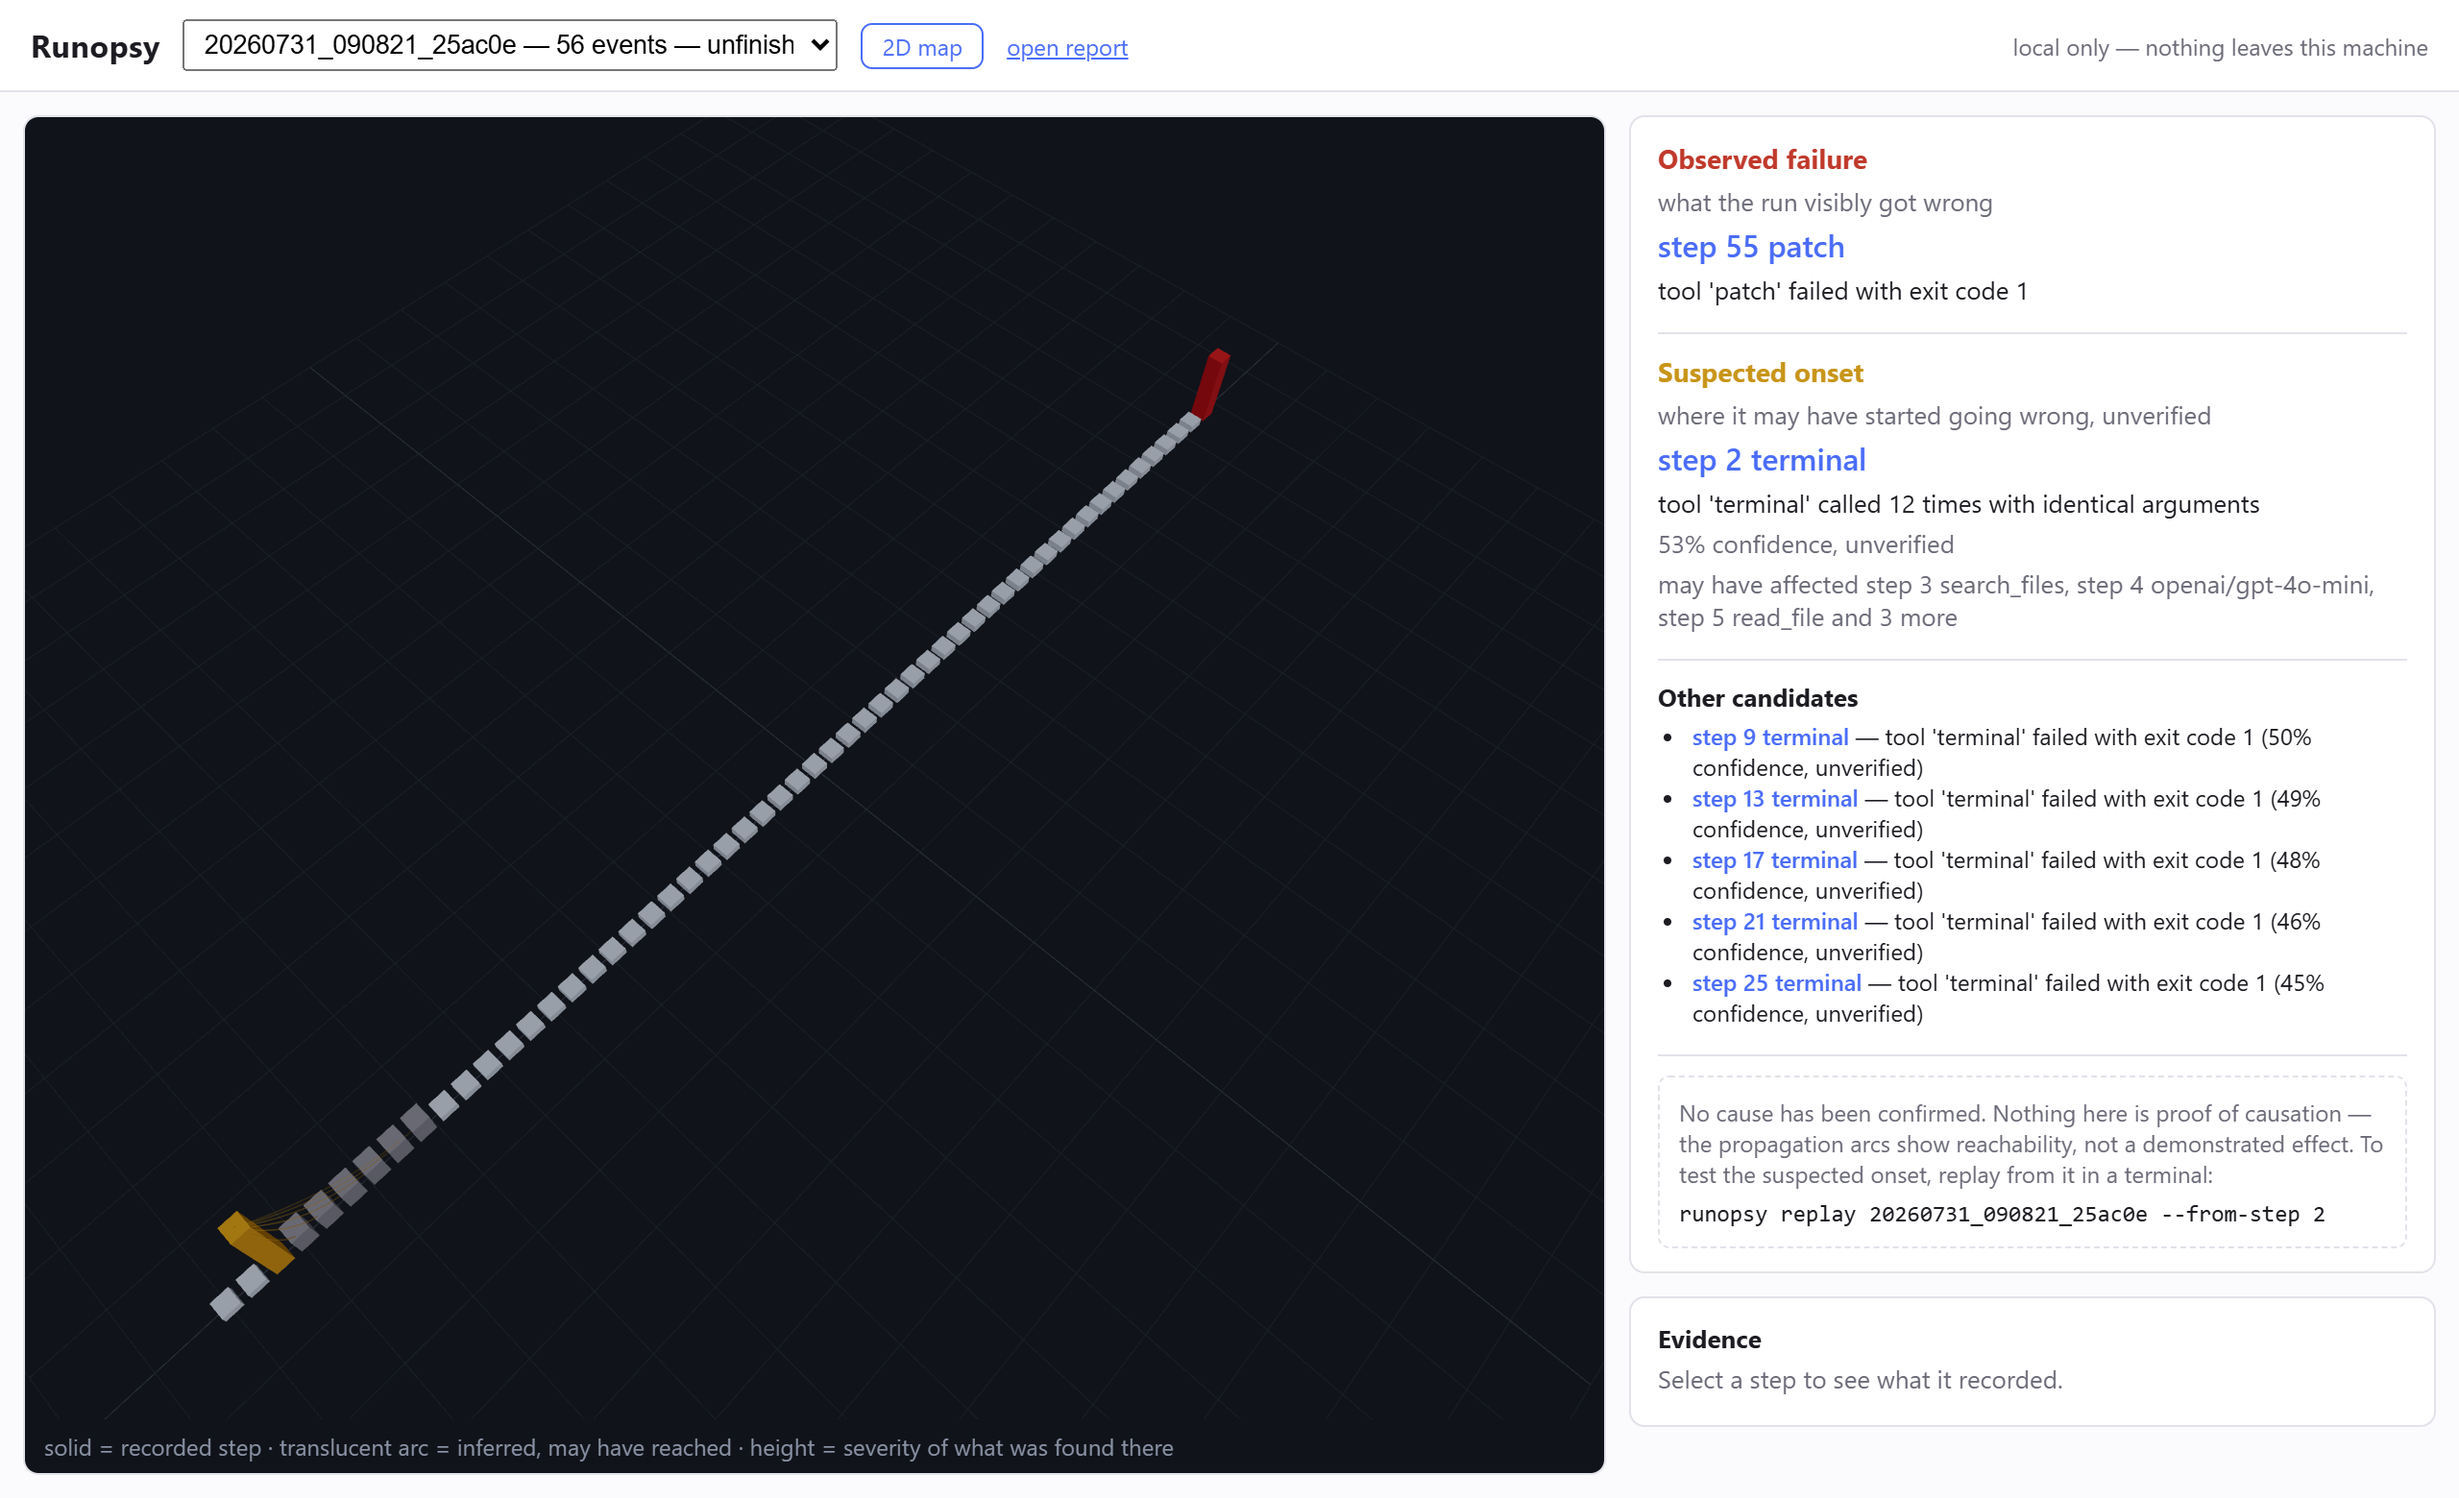
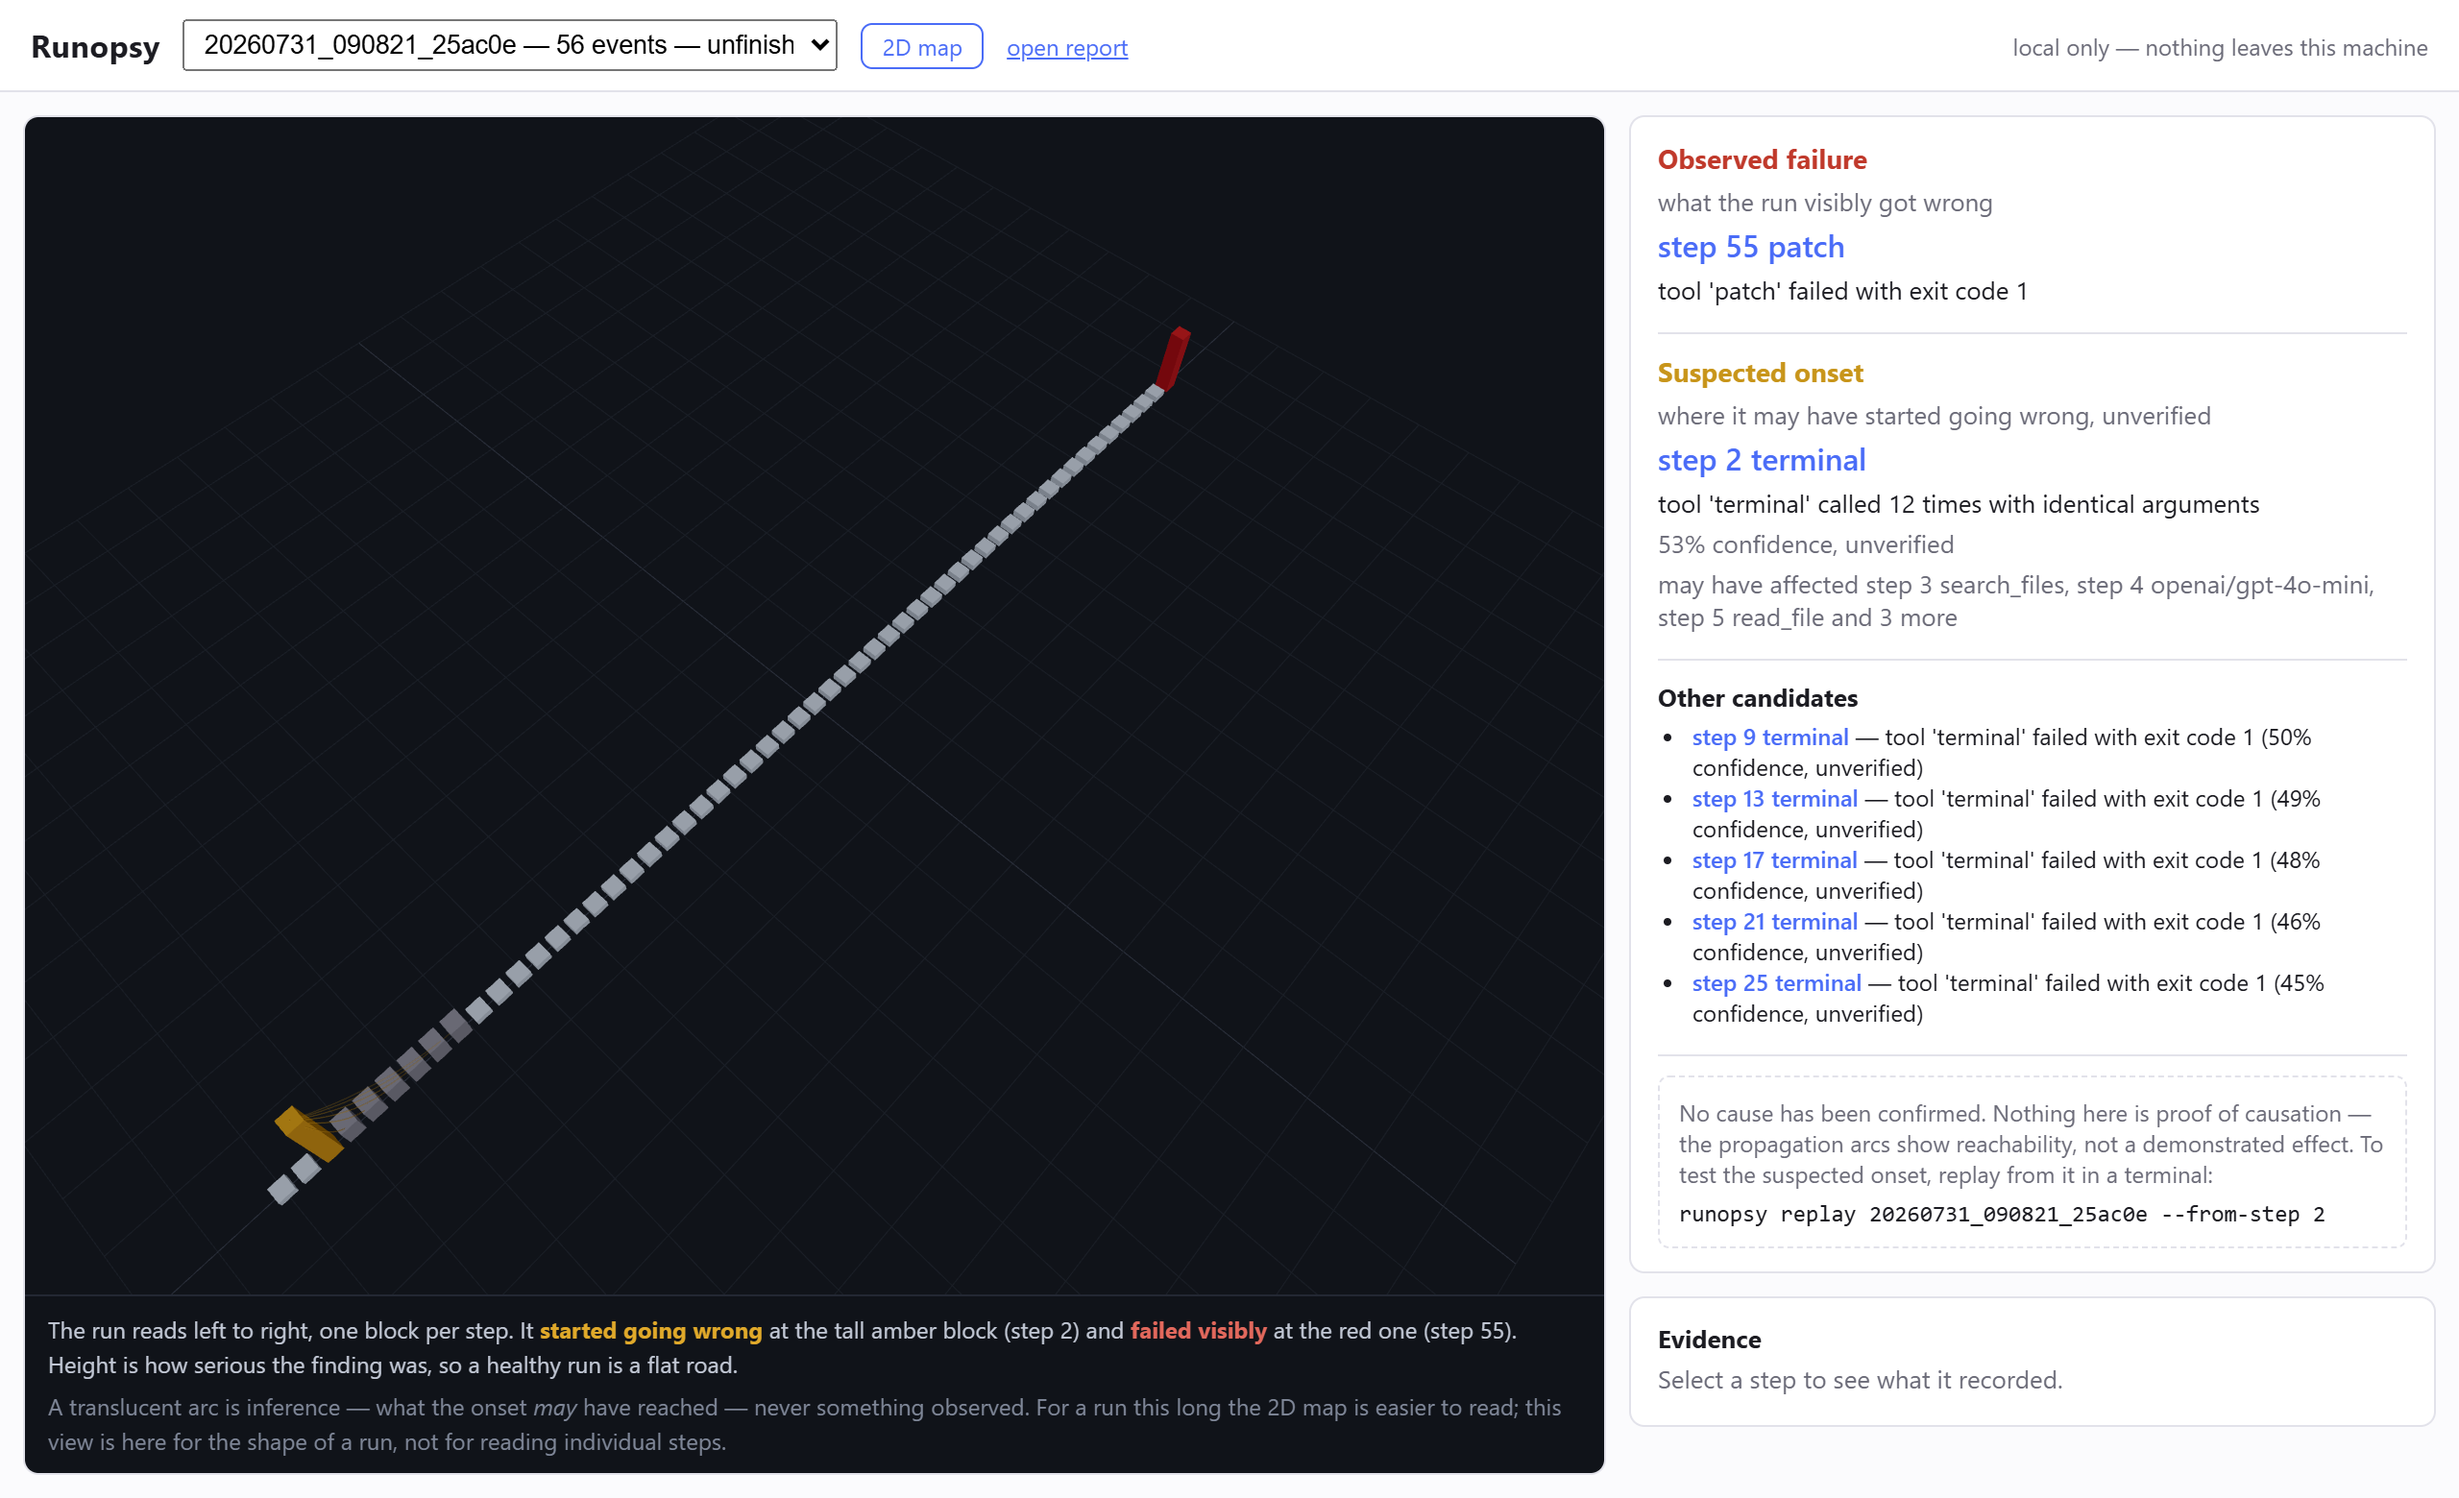
Make the maps readable by someone who has not read the code
A user looked at the 2D map of a fifty-six step run and said it told them nothing.
They were right. Every box carried the same visual weight, so the two steps that
matter were lost among the forty-eight that do not, and nothing on screen said
what any colour meant.

The map now leads with a sentence of plain English, the two important steps say
what they are in words — STARTED HERE, FAILED HERE — rather than relying on a
colour the reader has no key for, and the ordinary steps are deliberately faint. A
step nobody needs to read should not compete with the one they do. A legend sits
under the canvas, because a colour key nobody was given is a colour key nobody can
read.

The same reader said the 3D view looked like a flat line and they did not
understand it, and that criticism lands too. It had no labels at all: a row of
coloured blocks with no way to tell which was which. It now carries a caption
naming the amber and red blocks by step number, and says outright that for a run
this long the 2D map is easier to read and this view is for the shape of a run
rather than for reading individual steps. That is what the design document has
always said about 3D, and the honest thing is to say it where somebody is looking
at the view rather than only in a document.

A picture that needs a person standing beside it to explain what it shows is not
finished, however correct the rendering is.

Changed region(s): [[0.0312, 0.2154, 0.625, 0.9846]]

diff --git a/packages/runopsy-ui/src/FailureMap.tsx b/packages/runopsy-ui/src/FailureMap.tsx
@@ -16,9 +16,9 @@ import { useSelection } from "./store";
 
 // Nodes are 210 wide; the gap between columns has to hold a "may reach 42%" label
 // without it colliding with the box beside it.
-const COLUMN = 300;
+const COLUMN = 330;
 const ROW = 82;
-const MAX_LABEL = 30;
+const MAX_LABEL = 26;
 
 /** One line that fits the box.
  *
@@ -53,11 +53,31 @@ function roleOf(
   return "plain";
 }
 
+/** Styling carries the reading order, because fifty near-identical boxes do not.
+ *
+ * A user looking at a fifty-step run said the map told them nothing, and they were
+ * right: every step had the same weight, so the two that matter were lost among the
+ * forty-eight that do not. The marked steps are now larger, bolder and darker, and the
+ * ordinary ones are deliberately faint — a step nobody needs to read should not compete
+ * with the one they do.
+ */
 const STYLES: Record<string, React.CSSProperties> = {
-  onset: { background: "#fff6d8", border: "2px solid #c8951a", fontWeight: 600 },
-  failure: { background: "#ffe1e1", border: "2px solid #c0392b", fontWeight: 600 },
-  affected: { background: "#f4f4f6", border: "1px solid #b9b9c4" },
-  plain: { background: "#ffffff", border: "1px solid #d8d8e0" },
+  onset: {
+    background: "#ffe9a8",
+    border: "3px solid #b8860b",
+    fontWeight: 700,
+    color: "#4a3600",
+    fontSize: 13,
+  },
+  failure: {
+    background: "#ffd0d0",
+    border: "3px solid #b0281a",
+    fontWeight: 700,
+    color: "#5c1410",
+    fontSize: 13,
+  },
+  affected: { background: "#fdf6e6", border: "1px solid #d8b878", color: "#6b5a30" },
+  plain: { background: "#fbfbfd", border: "1px solid #e6e6ee", color: "#9a9aa8" },
 };
 
 export function FailureMap({ graph, onset, observedFailureNodeId }: Props) {
@@ -78,7 +98,16 @@ export function FailureMap({ graph, onset, observedFailureNodeId }: Props) {
               x: (index % 4) * COLUMN,
               y: Math.floor(index / 4) * ROW,
             },
-            data: { label: `${node.sequence}  ${fitLabel(node.label || node.kind)}` },
+            // The two steps that matter say what they are, in words. A colour is only
+            // legible to someone who has already read the legend; a label is not.
+            data: {
+              label:
+                role === "onset"
+                  ? `STARTED HERE - step ${node.sequence} ${fitLabel(node.label || node.kind)}`
+                  : role === "failure"
+                    ? `FAILED HERE - step ${node.sequence} ${fitLabel(node.label || node.kind)}`
+                    : `${node.sequence}  ${fitLabel(node.label || node.kind)}`,
+            },
             title: node.label || node.kind,
             style: {
               ...STYLES[role],
@@ -90,7 +119,7 @@ export function FailureMap({ graph, onset, observedFailureNodeId }: Props) {
               overflow: "hidden",
               textOverflow: "ellipsis",
               fontSize: 12,
-              width: 210,
+              width: role === "onset" || role === "failure" ? 268 : 214,
               outline: node.node_id === focused ? "3px solid #4a6cf7" : undefined,
             },
           };
@@ -120,17 +149,39 @@ export function FailureMap({ graph, onset, observedFailureNodeId }: Props) {
   }, [graph.edges, graph.inferred_edges]);
 
   return (
-    <div style={{ height: "100%", border: "1px solid #e2e2ea", borderRadius: 8 }}>
-      <ReactFlow
-        nodes={nodes}
-        edges={edges}
-        onNodeClick={(_, node) => focusNode(node.id)}
-        fitView
-        proOptions={{ hideAttribution: false }}
-      >
-        <Background />
-        <Controls />
-      </ReactFlow>
+    <div className="mapframe">
+      <div className="maphint">
+        Each box is one step, in order. The run <b>failed</b> at the red box — it{" "}
+        <b>started going wrong</b> at the amber one. Dashed amber lines are what that
+        step <i>may</i> have reached: inference, not something observed. Click any step
+        to see what it recorded.
+      </div>
+      <div className="mapcanvas">
+        <ReactFlow
+          nodes={nodes}
+          edges={edges}
+          onNodeClick={(_, node) => focusNode(node.id)}
+          fitView
+          proOptions={{ hideAttribution: false }}
+        >
+          <Background />
+          <Controls />
+        </ReactFlow>
+      </div>
+      <div className="maplegend">
+        <span>
+          <i className="swatch onset" /> started going wrong
+        </span>
+        <span>
+          <i className="swatch failure" /> visible failure
+        </span>
+        <span>
+          <i className="swatch affected" /> may have been affected
+        </span>
+        <span>
+          <i className="swatch plain" /> nothing found here
+        </span>
+      </div>
     </div>
   );
 }

diff --git a/packages/runopsy-ui/src/styles.css b/packages/runopsy-ui/src/styles.css
@@ -68,3 +68,35 @@ ul { margin: 4px 0; padding-left: 18px; font-size: 12px; }
 .map3d { height: 100%; display: flex; flex-direction: column; border: 1px solid var(--line); border-radius: 8px; overflow: hidden; }
 .map3d canvas { flex: 1; }
 .dim3d { margin: 0; padding: 6px 10px; background: #101319; color: #8a93a6; }
+
+/* The map, with the words a first-time reader needs around it. A colour key nobody
+   was given is a colour key nobody can read. */
+.mapframe {
+  height: 100%; display: flex; flex-direction: column;
+  border: 1px solid var(--line); border-radius: 8px; overflow: hidden; background: #fff;
+}
+.maphint {
+  padding: 8px 12px; font-size: 12px; line-height: 1.5; color: #45454f;
+  background: #f7f8fb; border-bottom: 1px solid var(--line);
+}
+.maphint b { color: #1c1c22; }
+.mapcanvas { flex: 1; min-height: 0; }
+.maplegend {
+  display: flex; flex-wrap: wrap; gap: 16px;
+  padding: 7px 12px; font-size: 12px; color: var(--dim);
+  border-top: 1px solid var(--line); background: #fbfbfd;
+}
+.maplegend span { display: inline-flex; align-items: center; gap: 6px; }
+.swatch { width: 14px; height: 14px; border-radius: 3px; display: inline-block; }
+.swatch.onset { background: #ffe9a8; border: 2px solid #b8860b; }
+.swatch.failure { background: #ffd0d0; border: 2px solid #b0281a; }
+.swatch.affected { background: #fdf6e6; border: 1px solid #d8b878; }
+.swatch.plain { background: #fbfbfd; border: 1px solid #e6e6ee; }
+
+/* The 3D caption. Without it the view is a row of coloured blocks and no way to know
+   which is which — a picture that needs a person beside it to explain is not finished. */
+.caption3d { padding: 8px 12px; background: #101319; border-top: 1px solid #232833; }
+.caption3d p { margin: 0 0 4px; font-size: 12px; line-height: 1.5; color: #c3c9d6; }
+.caption3d p.gloss { color: #7f8798; margin-bottom: 0; }
+.caption3d .amber { color: #e0a92a; }
+.caption3d .red { color: #e2685c; }

diff --git a/packages/runopsy-ui/src/FailureMap3D.tsx b/packages/runopsy-ui/src/FailureMap3D.tsx
@@ -179,6 +179,11 @@ export default function FailureMap3D({
     [onset],
   );
 
+  const stepOf = (id: string | null | undefined): number | null =>
+    ordered.find((node) => node.node_id === id)?.sequence ?? null;
+  const onsetStep = stepOf(onset?.onset_node_id);
+  const failureStep = stepOf(observedFailureNodeId);
+
   const arcs = useMemo(() => {
     if (!onset) return [];
     const from = indexById.get(onset.onset_node_id);
@@ -216,10 +221,21 @@ export default function FailureMap3D({
           position={[0, 0, (-ordered.length * STEP_SPACING) / 2]}
         />
       </Canvas>
-      <p className="gloss dim3d">
-        solid&nbsp;=&nbsp;recorded step · translucent arc&nbsp;=&nbsp;inferred, may have
-        reached · height&nbsp;=&nbsp;severity of what was found there
-      </p>
+      <div className="caption3d">
+        <p>
+          The run reads left to right, one block per step. It{" "}
+          <b className="amber">started going wrong</b> at the tall amber block
+          {onsetStep !== null ? ` (step ${onsetStep})` : ""} and{" "}
+          <b className="red">failed visibly</b> at the red one
+          {failureStep !== null ? ` (step ${failureStep})` : ""}. Height is how serious
+          the finding was, so a healthy run is a flat road.
+        </p>
+        <p className="gloss">
+          A translucent arc is inference — what the onset <i>may</i> have reached — never
+          something observed. For a run this long the 2D map is easier to read; this view
+          is here for the shape of a run, not for reading individual steps.
+        </p>
+      </div>
     </div>
   );
 }
